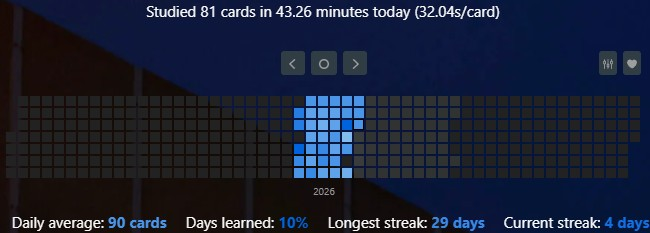
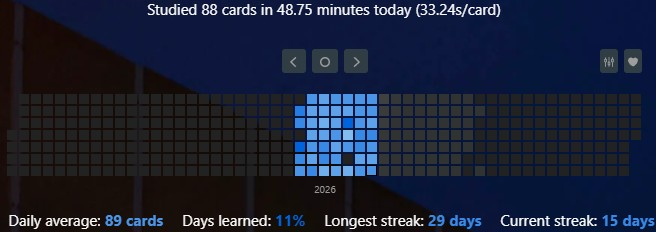
udpate streak

diff --git a/README.md b/README.md
@@ -14,7 +14,7 @@ I keep three daily habits to counter out-sourcing thinking and stay sharp:
 - **Anki** - ~1h/day A spaced repetition memorization software, which already helped me succeed in medschool. I'm currently creating a deck that aims to be "like a basic vocabulary for Rust". Additionally, I recreated Neetcode 150 questions as Rust cards. I aim for 9 cards/day from the basic vocabulary and 1 card/day from the Neetcode questions.
 - **Zen Coding** - when time allows, fully offline, no internet, standard library only. Currently in Rust, since low-level languages and secure code matter more as AI-generated code grows. (Currently snake in Rust to learn the Elm-architecture with `iced`).
 
-The Anki-Progress will be posted here in irregular intervals (last updated 2026-07-12):
+The Anki-Progress will be posted here in irregular intervals (last updated 2026-08-02):
 
 <img src="anki_streak.jpg" width="60%"/>
 
